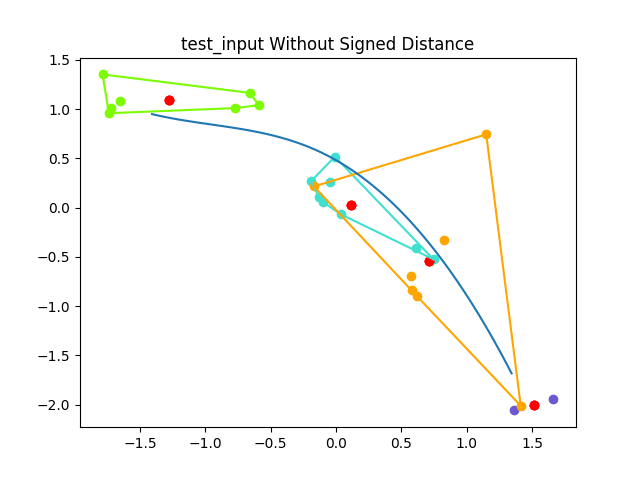
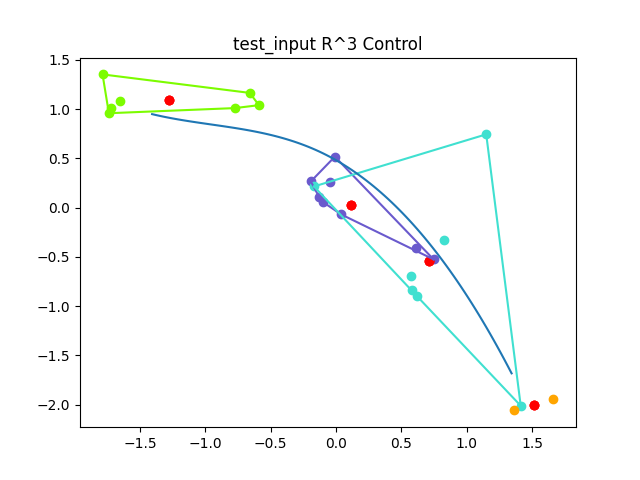
fix plotting visuals

diff --git a/library/visualize_clusters.py b/library/visualize_clusters.py
@@ -137,11 +137,11 @@ def visualize_clusters(
         all_intersection_combos(convex_hull_borders)
 
     # Plot after removing next five lines ***
-    xlimit = plt.xlim()
-    ylimit = plt.ylim()
+    # xlimit = plt.xlim()
+    # ylimit = plt.ylim()
 
-    plt.xlim(xlimit)
-    plt.ylim(ylimit)
+    # plt.xlim(xlimit)
+    # plt.ylim(ylimit)
 
     if (
         plot_rating
@@ -152,9 +152,9 @@ def visualize_clusters(
             cmap="viridis",
             c=data_vectors[:, cmap_index],
         )
-        plt.colorbar(label="hotel rating")
+        # plt.colorbar(label="hotel rating")
 
-    plt.title(label=title)
+    if not plot_matrix: plt.title(label=title)
     return cluster_info
 
 
@@ -358,9 +358,13 @@ def increment_beta_values(
     k,
     n,
     method="scaling",
+    final_beta_list = ((.5, 1),
+                       (1.5, 2),
+                       (3, 5)),
     start=0.1,
     stop=5,
     increment=0.05,
+    overlay_rating=False,
 ):
     """
     Runs k-means of every beta modification from start to stop.
@@ -404,6 +408,7 @@ def increment_beta_values(
     #### plot data evaluation with beta values
     plt.figure()
     plt.plot(all_betas, beta_yields, "o-r")
+    plt.title(f"{name} adjusted_rand_score for {method}")
     plt.show(block=False)
 
     # collect floats for which to rerun clustering
@@ -414,12 +419,9 @@ def increment_beta_values(
     #     ).split()
     # ]
 
-    final_beta_list = [1.0, 0.5, 1.5, 2.0, 3.0, 5.0]
-    final_beta_list = [[1.0, 0.5],
-                       [1.5, 2.0],
-                       [3.0, 5.0]]
 
-    fig, axes = plt.subplots(3, 2)
+    fig, axes = plt.subplots(3, 2, layout="constrained")
+
 
     for r, row in enumerate(final_beta_list):
         for c, final_beta in enumerate(row):
@@ -428,16 +430,20 @@ def increment_beta_values(
             kmeans = KMeans(n_clusters=k, init="k-means++")
             estimator = kmeans.fit(modified_data)
 
-            visualize_clusters(modified_data, kmeans, k, plot_rating=True,
+            visualize_clusters(modified_data, kmeans, k, plot_rating=overlay_rating,
                 title=f"Beta {method} {final_beta} of {name} with {k} clusters within {n} miles",
                 plot_matrix=True, sub_axes=axes, subplot_ix=(r, c)
             )
+            axes[r, c].set_title(f"Beta: {final_beta}")
             # plot_cubic_spline_highway(highway_cubic_spline)
             hw_x = np.linspace(highway_cubic_spline.x[0], highway_cubic_spline.x[-1], num=100)
             plotting_fxn = highway_cubic_spline(hw_x)
             axes[r, c].plot(hw_x, plotting_fxn)
+    if overlay_rating: plt.colorbar(label="hotel rating")
+    fig.suptitle(f"{name} clustering with {method} betas")
+    fig.set_size_inches(8, 6)
     plt.savefig(
-                f"results/{name}_{method}_{final_beta}_with.png"
+                f"results/{name}_{method}_with.png"
             )
     plt.show(block=False)
 

diff --git a/clustering_script.py b/clustering_script.py
@@ -65,13 +65,13 @@ if __name__ == "__main__":
     ######################################
 
     # ### Visualize both clusterings
-    r4_info = visualize_clusters.visualize_clusters(scaled_vectors_r4, kmeans_r4, k, title=f"{name} With Signed Distance", plot_rating=False)
+    r4_info = visualize_clusters.visualize_clusters(scaled_vectors_r4, kmeans_r4, k, title=f"{name} R^4 Control", plot_rating=False)
     # Plot highway
     visualize_clusters.plot_cubic_spline_highway(hw_cubic_spline_scaled)
     plt.savefig(f"results/{name}_with_signed_distance")
     plt.show(block=False)
 
-    r3_info = visualize_clusters.visualize_clusters(scaled_vectors_r3, kmeans_r3, k, title=f"{name} Without Signed Distance", plot_rating=False)
+    r3_info = visualize_clusters.visualize_clusters(scaled_vectors_r3, kmeans_r3, k, title=f"{name} R^3 Control", plot_rating=False)
     # Plot highway
     visualize_clusters.plot_cubic_spline_highway(hw_cubic_spline_scaled)
     plt.savefig(f"results/I-{name}_Control_without_signed_distance")
